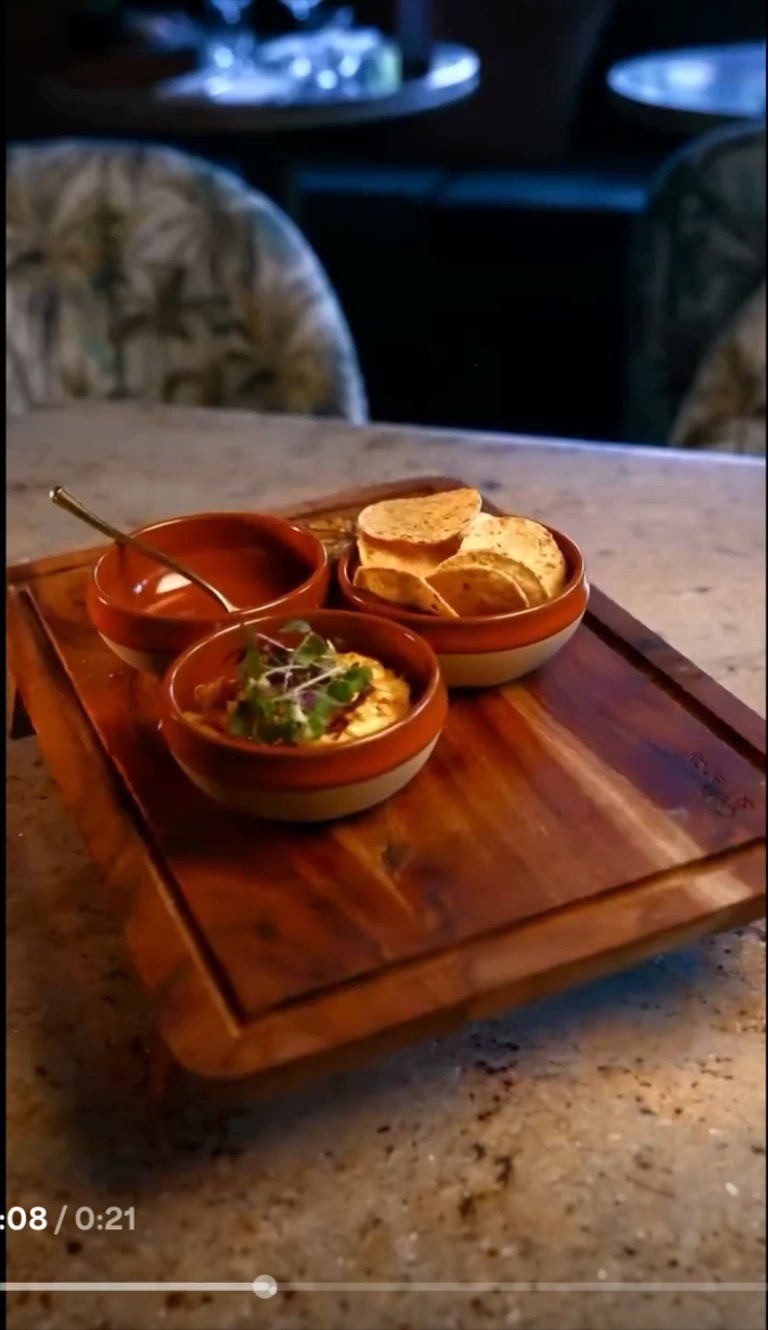
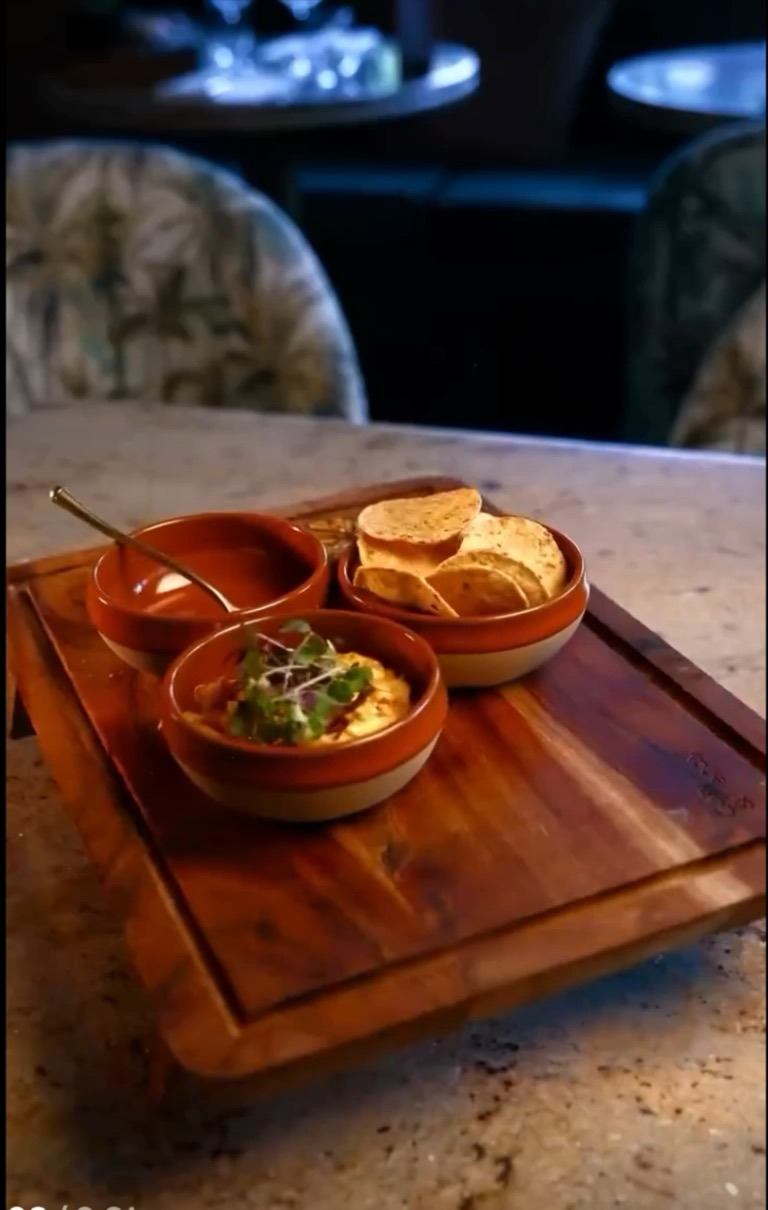
Refine hero video framing and poster

diff --git a/css/custom.css b/css/custom.css
@@ -345,19 +345,53 @@ body.dark-mode .hero-text-bg {
 
 .hero-visual {
   position: relative;
-  min-height: 38rem;
+  min-height: 42rem;
+  display: flex;
+  align-items: center;
+  justify-content: flex-end;
+  padding: 1.6rem 1.35rem 4.8rem 2.25rem;
+  border-radius: 3rem;
+  isolation: isolate;
+}
+
+.hero-visual::before {
+  content: "";
+  position: absolute;
+  inset: 0.9rem 0 0.7rem 1.8rem;
+  border-radius: 3rem;
+  background: linear-gradient(180deg, rgba(17, 17, 17, 0.09), rgba(17, 17, 17, 0.04));
+  box-shadow: 0 26px 72px rgba(17, 17, 17, 0.08);
+  z-index: 0;
+}
+
+body.dark-mode .hero-visual::before {
+  background: linear-gradient(180deg, rgba(255, 255, 255, 0.035), rgba(255, 255, 255, 0.018));
+  box-shadow: 0 28px 74px rgba(0, 0, 0, 0.28);
 }
 
 .hero-image-frame {
   position: relative;
-  width: min(100%, 42rem);
-  height: 42rem;
+  z-index: 2;
+  width: min(100%, 40.75rem);
+  aspect-ratio: 1 / 1;
+  height: auto;
   margin-left: auto;
-  border-radius: 2.4rem;
+  border-radius: 2.65rem;
   overflow: hidden;
   box-shadow: 0 38px 88px rgba(17, 17, 17, 0.2);
   background: #111111;
   isolation: isolate;
+  border: 1px solid rgba(255, 255, 255, 0.14);
+}
+
+.hero-image-frame::after {
+  content: "";
+  position: absolute;
+  inset: 0;
+  border-radius: inherit;
+  box-shadow: inset 0 0 0 1px rgba(255, 255, 255, 0.08);
+  pointer-events: none;
+  z-index: 2;
 }
 
 .hero-video {
@@ -366,7 +400,7 @@ body.dark-mode .hero-text-bg {
   width: 100%;
   height: 100%;
   object-fit: cover;
-  object-position: 56% center;
+  object-position: 50% 58%;
   border-radius: inherit;
   display: block;
   background: #111111;
@@ -391,6 +425,11 @@ body.dark-mode .hero-text-bg {
   display: none !important;
 }
 
+.hero-video::-webkit-media-controls-overlay-play-button {
+  display: none !important;
+  -webkit-appearance: none;
+}
+
 .hero-video::-webkit-media-controls-start-playback-button {
   display: none !important;
   -webkit-appearance: none;
@@ -400,7 +439,7 @@ body.dark-mode .hero-text-bg {
   position: absolute;
   inset: 0;
   z-index: 1;
-  background: linear-gradient(180deg, rgba(0, 0, 0, 0.07), rgba(0, 0, 0, 0.155));
+  background: linear-gradient(180deg, rgba(0, 0, 0, 0.05), rgba(0, 0, 0, 0.132));
   pointer-events: none;
 }
 
@@ -464,17 +503,18 @@ body.dark-mode .hero-text-bg {
 .hero-floating-card {
   z-index: 3;
   will-change: transform;
+  backdrop-filter: blur(12px);
 }
 
 .reservation-card {
-  top: 4rem;
-  right: -1rem;
+  top: 4.1rem;
+  right: 0.15rem;
   animation: heroCardFloat 2.4s infinite ease-in-out;
 }
 
 .special-card {
-  bottom: 3rem;
-  right: 4rem;
+  bottom: 2.65rem;
+  right: 2.6rem;
   background: #111111;
   color: #f8f6f1;
   animation: heroCardFloat 2.4s infinite ease-in-out 0.3s;
@@ -490,8 +530,8 @@ body.dark-mode .special-card {
 
 .today-badge {
   position: absolute;
-  left: 4rem;
-  top: 3rem;
+  left: 2.1rem;
+  top: 2.2rem;
   z-index: 3;
   display: inline-flex;
   flex-direction: column;
@@ -1008,15 +1048,25 @@ body.dark-mode .site-footer {
 
 @media (max-width: 1199.98px) {
   .hero-visual {
-    min-height: 34rem;
+    min-height: 38rem;
+    padding: 1.35rem 1rem 4.2rem 1.4rem;
+  }
+
+  .hero-visual::before {
+    inset: 0.7rem 0 0.45rem 1rem;
   }
 
   .reservation-card {
-    right: 1rem;
+    right: 0.25rem;
   }
 
   .special-card {
-    right: 1.5rem;
+    right: 1.65rem;
+  }
+
+  .today-badge {
+    left: 1.4rem;
+    top: 1.65rem;
   }
 
   .highlight-grid {
@@ -1059,14 +1109,23 @@ body.dark-mode .site-footer {
   .hero-visual {
     min-height: auto;
     padding-bottom: 12rem;
+    padding-top: 1rem;
+    padding-left: 1rem;
+    padding-right: 1rem;
+  }
+
+  .hero-visual::before {
+    inset: 0.35rem 0 3.9rem 0;
+    border-radius: 2.35rem;
   }
 
   .hero-image-frame {
-    height: 32rem;
+    width: min(100%, 32rem);
+    border-radius: 2.25rem;
   }
 
   .hero-video {
-    object-position: 54% center;
+    object-position: 51% 57%;
   }
 
   .reservation-card {
@@ -1122,15 +1181,21 @@ body.dark-mode .site-footer {
 
   .hero-visual {
     min-height: auto;
-    padding-bottom: 12rem;
+    padding: 0.8rem 0.8rem 10.9rem;
+  }
+
+  .hero-visual::before {
+    inset: 0 0 3.35rem;
+    border-radius: 2rem;
   }
 
   .hero-image-frame {
-    height: 25rem;
+    width: 100%;
+    border-radius: 2rem;
   }
 
   .hero-video {
-    object-position: 57% center;
+    object-position: 52% 59%;
   }
 
   .floating-card {
@@ -1156,20 +1221,20 @@ body.dark-mode .site-footer {
   }
 
   .reservation-card {
-    top: 1rem;
-    right: 0.75rem;
+    top: 0.9rem;
+    right: 0.85rem;
   }
 
   .special-card {
     left: auto;
-    right: 0.75rem;
-    bottom: -2.1rem;
+    right: 0.85rem;
+    bottom: -1.8rem;
   }
 
   .today-badge {
     position: absolute;
-    top: 0.75rem;
-    left: 0.75rem;
+    top: 0.85rem;
+    left: 0.85rem;
     min-width: 10.25rem;
     margin-top: 0;
     padding: 0.8rem 0.95rem 0.85rem;
@@ -1218,11 +1283,15 @@ body.dark-mode .site-footer {
   }
 
   .hero-video {
-    object-position: 59% center;
+    object-position: 52% 61%;
   }
 
   .hero-visual {
-    padding-bottom: 11.5rem;
+    padding-bottom: 10rem;
+  }
+
+  .hero-visual::before {
+    inset: 0 0 2.85rem;
   }
 
   .floating-card {
@@ -1236,17 +1305,17 @@ body.dark-mode .site-footer {
 
   .reservation-card {
     top: 0.85rem;
-    right: 0.65rem;
+    right: 0.7rem;
   }
 
   .special-card {
-    right: 0.65rem;
-    bottom: -1.85rem;
+    right: 0.7rem;
+    bottom: -1.55rem;
   }
 
   .today-badge {
-    top: 0.65rem;
-    left: 0.65rem;
+    top: 0.7rem;
+    left: 0.7rem;
     min-width: 9.6rem;
   }
 
@@ -1262,11 +1331,16 @@ body.dark-mode .site-footer {
 
 @media (max-width: 399.98px) {
   .hero-image-frame {
-    height: 22rem;
+    border-radius: 1.75rem;
   }
 
   .hero-visual {
-    padding-bottom: 10.75rem;
+    padding-bottom: 9.35rem;
+  }
+
+  .hero-visual::before {
+    inset: 0 0 2.4rem;
+    border-radius: 1.85rem;
   }
 
   .floating-card {
@@ -1279,17 +1353,17 @@ body.dark-mode .site-footer {
   }
 
   .reservation-card {
-    right: 0.55rem;
+    right: 0.6rem;
   }
 
   .special-card {
-    right: 0.55rem;
-    bottom: -1.65rem;
+    right: 0.6rem;
+    bottom: -1.35rem;
   }
 
   .today-badge {
-    left: 0.55rem;
-    top: 0.55rem;
+    left: 0.6rem;
+    top: 0.6rem;
     min-width: 9.1rem;
     padding: 0.72rem 0.85rem 0.76rem;
   }